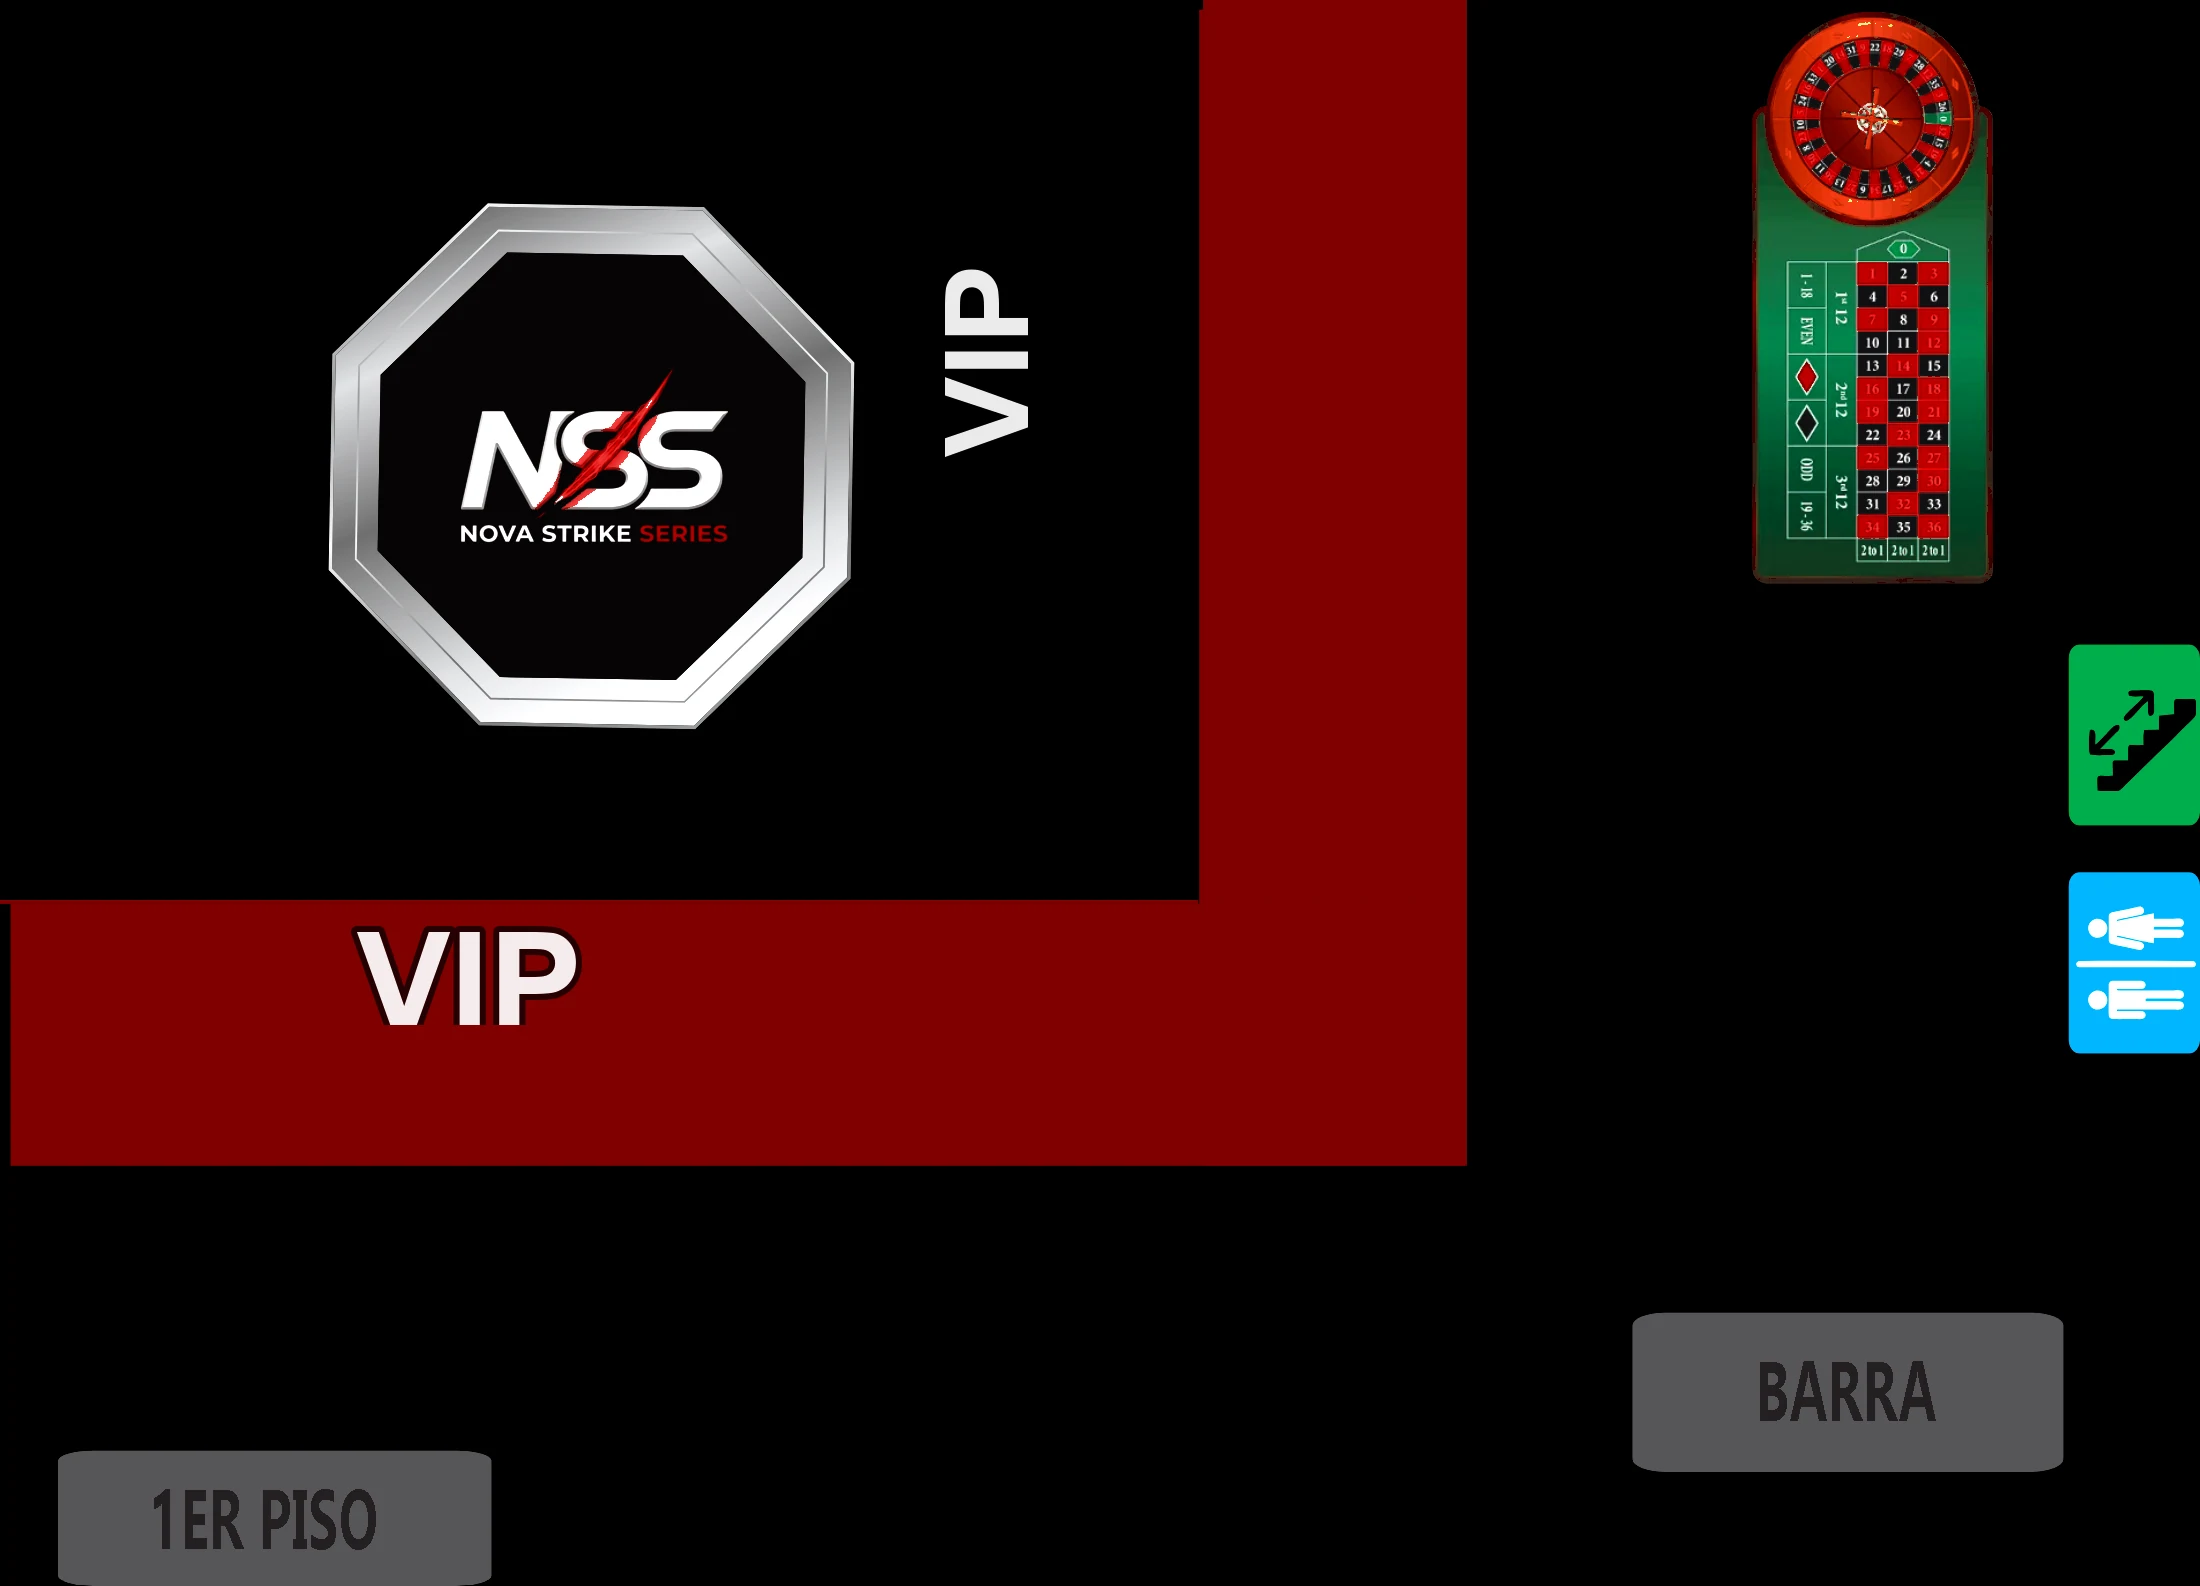
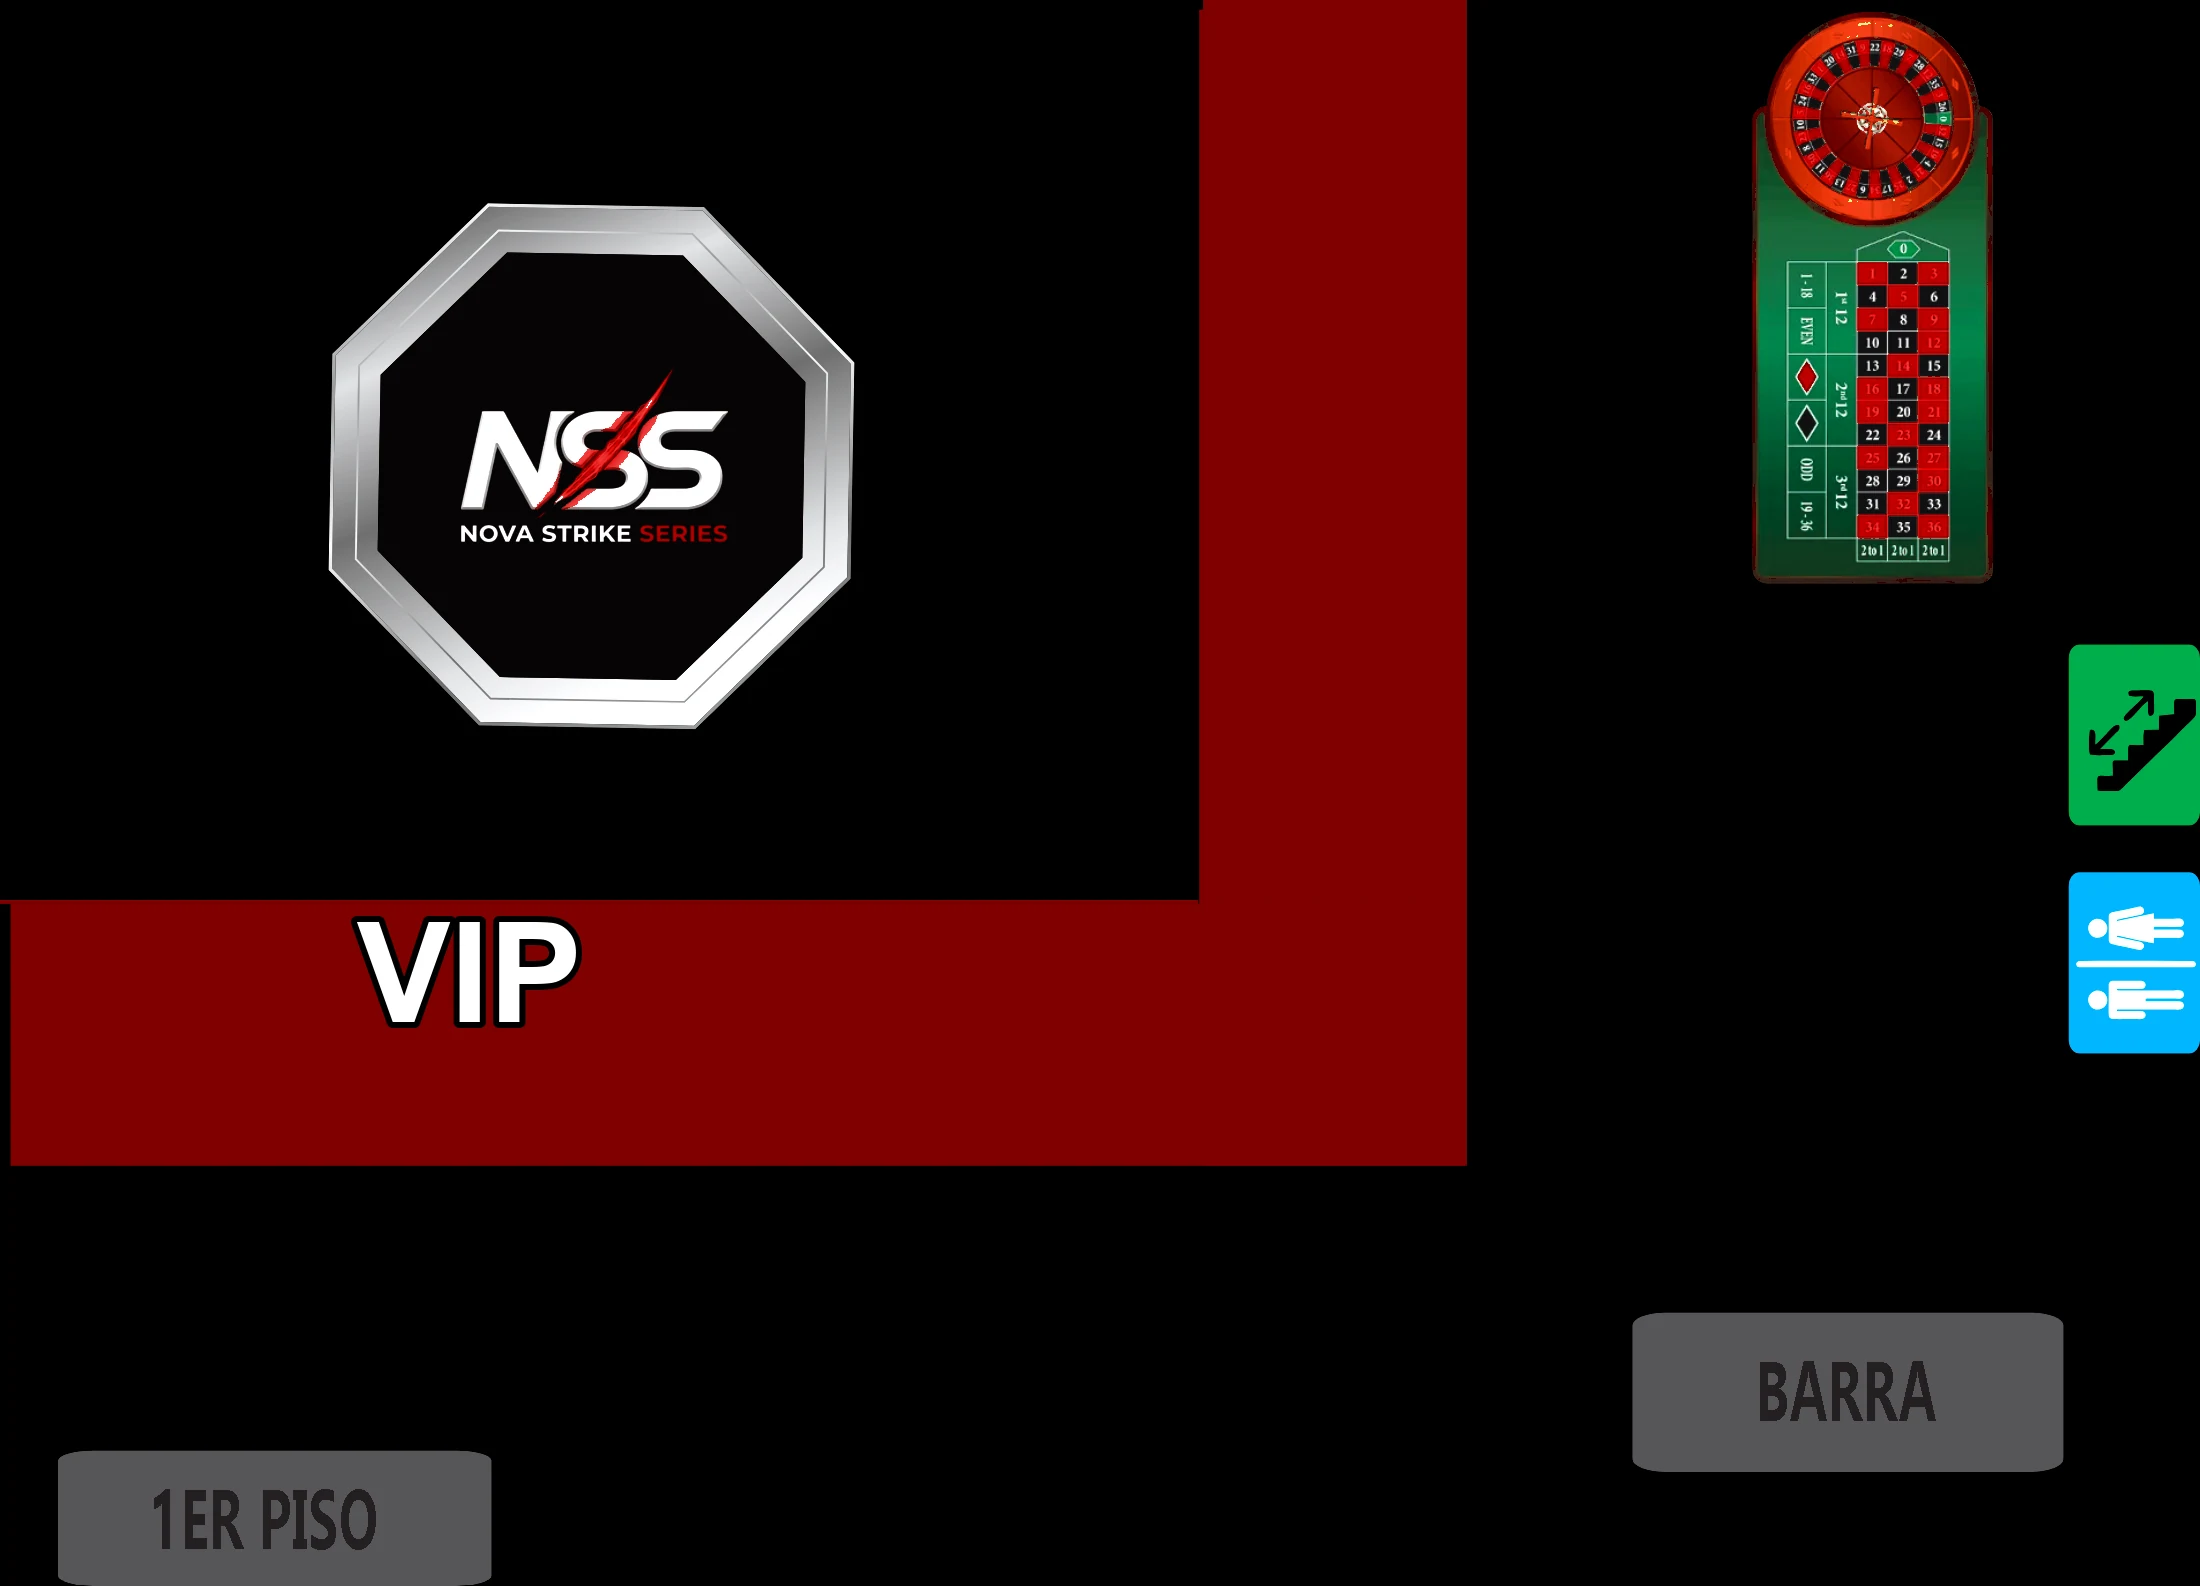
Mapa 1er piso: elimina el VIP vertical (caia en negro), deja solo el VIP de la franja roja; ?v=5

Changed region(s): [[0.1545, 0.5561, 0.2782, 0.6488], [0.4327, 0.1545, 0.4636, 0.2781]]

diff --git a/mapa-asientos.html b/mapa-asientos.html
@@ -152,7 +152,7 @@
   <button class="cta" id="mpay" style="background:transparent;border:1px solid var(--border2);color:var(--muted);box-shadow:none;margin-top:10px;font-size:13px">o apartar por WhatsApp</button><div id="speibox" style="font-size:11.5px;color:var(--muted);margin-top:12px;line-height:1.6;background:var(--panel2);border:1px solid var(--border);border-radius:9px;padding:10px 12px;display:none"></div></div></div></div>
 <script>
 const SEATS = [{"id": "VIP-M01-S1", "zone": "VIP", "floor": "PB", "mesa": 1, "silla": 1, "x": 9030.0, "y": 3038.9}, {"id": "VIP-M01-S2", "zone": "VIP", "floor": "PB", "mesa": 1, "silla": 2, "x": 9266.7, "y": 3268.5}, {"id": "VIP-M01-S3", "zone": "VIP", "floor": "PB", "mesa": 1, "silla": 3, "x": 8813.1, "y": 3263.0}, {"id": "VIP-M01-S4", "zone": "VIP", "floor": "PB", "mesa": 1, "silla": 4, "x": 9036.1, "y": 3499.9}, {"id": "VIP-M02-S1", "zone": "VIP", "floor": "PB", "mesa": 2, "silla": 1, "x": 9754.9, "y": 4197.2}, {"id": "VIP-M02-S2", "zone": "VIP", "floor": "PB", "mesa": 2, "silla": 2, "x": 9991.6, "y": 4426.8}, {"id": "VIP-M02-S3", "zone": "VIP", "floor": "PB", "mesa": 2, "silla": 3, "x": 9538.0, "y": 4421.3}, {"id": "VIP-M02-S4", "zone": "VIP", "floor": "PB", "mesa": 2, "silla": 4, "x": 9761.0, "y": 4658.2}, {"id": "VIP-M03-S1", "zone": "VIP", "floor": "PB", "mesa": 3, "silla": 1, "x": 9742.3, "y": 5891.1}, {"id": "VIP-M03-S2", "zone": "VIP", "floor": "PB", "mesa": 3, "silla": 2, "x": 9979.1, "y": 6120.6}, {"id": "VIP-M03-S3", "zone": "VIP", "floor": "PB", "mesa": 3, "silla": 3, "x": 9525.5, "y": 6115.2}, {"id": "VIP-M03-S4", "zone": "VIP", "floor": "PB", "mesa": 3, "silla": 4, "x": 9748.4, "y": 6352.0}, {"id": "VIP-M04-S1", "zone": "VIP", "floor": "PB", "mesa": 4, "silla": 1, "x": 8754.9, "y": 7015.3}, {"id": "VIP-M04-S2", "zone": "VIP", "floor": "PB", "mesa": 4, "silla": 2, "x": 8991.6, "y": 7244.8}, {"id": "VIP-M04-S3", "zone": "VIP", "floor": "PB", "mesa": 4, "silla": 3, "x": 8538.0, "y": 7239.4}, {"id": "VIP-M04-S4", "zone": "VIP", "floor": "PB", "mesa": 4, "silla": 4, "x": 8761.0, "y": 7476.2}, {"id": "VIP-M05-S1", "zone": "VIP", "floor": "PB", "mesa": 5, "silla": 1, "x": 7538.3, "y": 7711.2}, {"id": "VIP-M05-S2", "zone": "VIP", "floor": "PB", "mesa": 5, "silla": 2, "x": 7775.0, "y": 7940.8}, {"id": "VIP-M05-S3", "zone": "VIP", "floor": "PB", "mesa": 5, "silla": 3, "x": 7321.4, "y": 7935.3}, {"id": "VIP-M05-S4", "zone": "VIP", "floor": "PB", "mesa": 5, "silla": 4, "x": 7544.4, "y": 8172.1}, {"id": "VIP-M06-S1", "zone": "VIP", "floor": "PB", "mesa": 6, "silla": 1, "x": 5898.9, "y": 7759.5}, {"id": "VIP-M06-S2", "zone": "VIP", "floor": "PB", "mesa": 6, "silla": 2, "x": 6135.6, "y": 7989.0}, {"id": "VIP-M06-S3", "zone": "VIP", "floor": "PB", "mesa": 6, "silla": 3, "x": 5682.0, "y": 7983.6}, {"id": "VIP-M06-S4", "zone": "VIP", "floor": "PB", "mesa": 6, "silla": 4, "x": 5905.0, "y": 8220.4}];
-const FLOORS = {"PB": {"bg": "uploads/pb.webp?v=4", "vb": "0 0 17573.27 12883.42", "label": "Planta Baja", "r": 105}, "1P": {"bg": "uploads/1piso.webp?v=4", "vb": "0 0 68911.32 49672.76", "label": "1er Piso", "r": 760}};
+const FLOORS = {"PB": {"bg": "uploads/pb.webp?v=4", "vb": "0 0 17573.27 12883.42", "label": "Planta Baja", "r": 105}, "1P": {"bg": "uploads/1piso.webp?v=5", "vb": "0 0 68911.32 49672.76", "label": "1er Piso", "r": 760}};
 const ZONES = {
   VIP:  { label:'VIP (mesa)', color:'#e11d2a', bright:'#ff6b76', price:1500 },
   VIPA: { label:'VIP (asiento)', color:'#e11d2a', bright:'#ff8f98', price:950, general:true, total:120 },

diff --git a/build_map2.py b/build_map2.py
@@ -16,7 +16,7 @@ SEATS_JSON = json.dumps(SEATS, ensure_ascii=False)
 PB_VB = d["PB"]["vb"]; P1_VB = d["1PISO"]["vb"]
 FLOORS = {
     "PB": {"bg": "uploads/pb.webp?v=4", "vb": f"0 0 {PB_VB[0]} {PB_VB[1]}", "label": "Planta Baja", "r": 105},
-    "1P": {"bg": "uploads/1piso.webp?v=4", "vb": f"0 0 {P1_VB[0]} {P1_VB[1]}", "label": "1er Piso", "r": 760},
+    "1P": {"bg": "uploads/1piso.webp?v=5", "vb": f"0 0 {P1_VB[0]} {P1_VB[1]}", "label": "1er Piso", "r": 760},
 }
 FLOORS_JSON = json.dumps(FLOORS, ensure_ascii=False)
 
